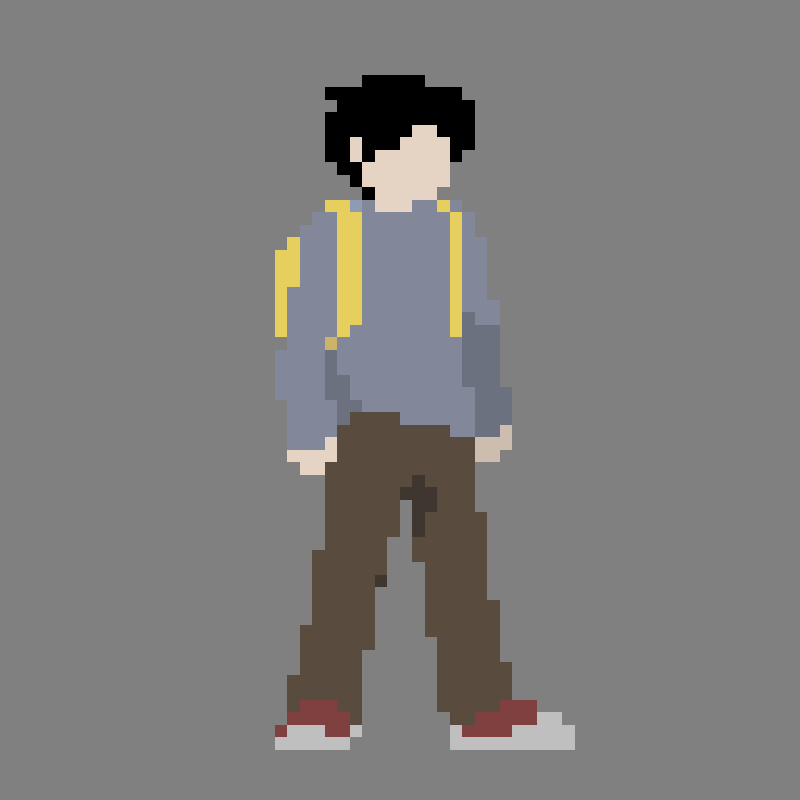
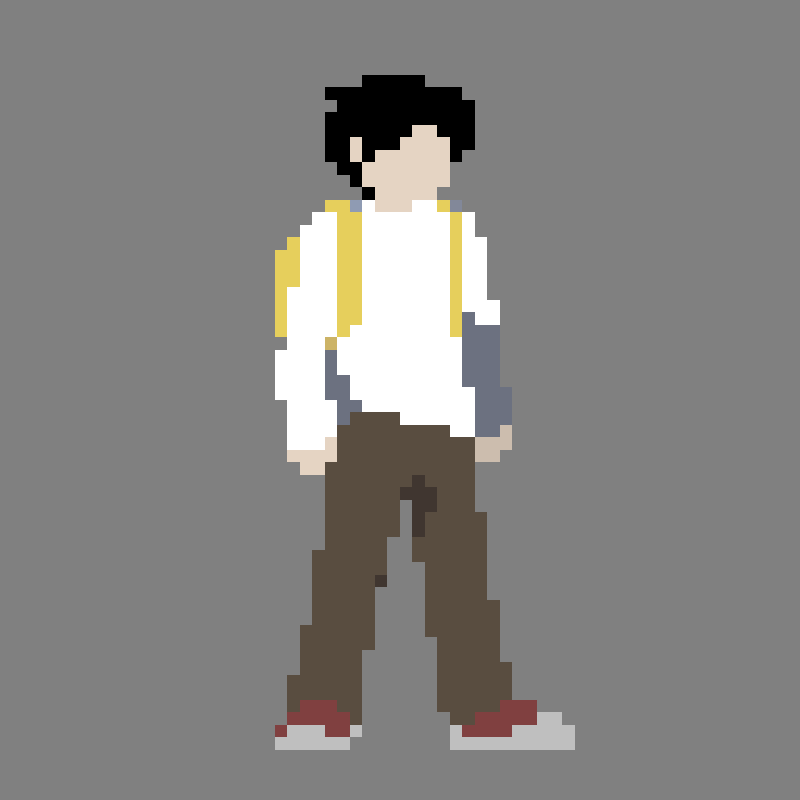
How did it not explode

Changed region(s): [[0.3438, 0.25, 0.625, 0.5625]]

diff --git a/Engine/Texture.cpp b/Engine/Texture.cpp
@@ -355,7 +355,7 @@ void Texture::InitShader()
 	glDeleteShader(fragmentShader);
 }
 
-void Texture::DrawShade(const Rectf& dstRect,const Rectf& srcRect,const Color4f& targetColor,const Color4f& replacementColor) const
+void Texture::DrawShade(const Rectf& dstRect,const Rectf& srcRect,std::initializer_list<std::pair<Color4f,Color4f>> colorPairs) const
 {
 	if (!m_CreationOk)
 	{
@@ -363,12 +363,11 @@ void Texture::DrawShade(const Rectf& dstRect,const Rectf& srcRect,const Color4f&
 		return;
 	}
 
-	const float epsilon{0.001f};
+	const float epsilon = 0.001f;
 
 	// --- Texture coordinates ---
 	float textLeft{},textRight{},textTop{},textBottom{};
 	float defaultDestWidth{},defaultDestHeight{};
-
 	if (!(srcRect.width > epsilon && srcRect.height > epsilon))
 	{
 		textLeft = 0.0f; textRight = 1.0f;
@@ -392,34 +391,60 @@ void Texture::DrawShade(const Rectf& dstRect,const Rectf& srcRect,const Color4f&
 	float vertexRight = (dstRect.width > epsilon) ? vertexLeft + dstRect.width : vertexLeft + defaultDestWidth;
 	float vertexTop = (dstRect.height > epsilon) ? vertexBottom + dstRect.height : vertexBottom + defaultDestHeight;
 
-	// --- Bind shader program ---
+	// --- Bind shader ---
 	glUseProgram(shaderProgram);
 
-	// --- Set uniforms ---
 	GLint texLoc = glGetUniformLocation(shaderProgram,"uTexture");
-	GLint targetLoc = glGetUniformLocation(shaderProgram,"uTargetColor");
-	GLint replacementLoc = glGetUniformLocation(shaderProgram,"uReplacementColor");
+	GLint numLoc = glGetUniformLocation(shaderProgram,"uNumColors");
+	GLint targetLoc = glGetUniformLocation(shaderProgram,"uTargetColors");
+	GLint replacementLoc = glGetUniformLocation(shaderProgram,"uReplacementColors");
 
-	glUniform1i(texLoc,0); // Texture unit 0
-	glUniform4f(targetLoc,targetColor.r,targetColor.g,targetColor.b,targetColor.a);
-	glUniform4f(replacementLoc,replacementColor.r,replacementColor.g,replacementColor.b,replacementColor.a);
+	glUniform1i(texLoc,0); // texture unit 0
 
-	// --- Bind texture ---
+	// --- Prepare color arrays ---
+	int numColors = std::min((int)colorPairs.size(),8); // max 8
+	glUniform1i(numLoc,numColors);
+
+	float targetData[32] = {0};
+	float replacementData[32] = {0};
+
+	int i = 0;
+	for (const auto& pair : colorPairs)
+	{
+		if (i >= 8) break;
+
+		targetData[i * 4 + 0] = pair.first.r;
+		targetData[i * 4 + 1] = pair.first.g;
+		targetData[i * 4 + 2] = pair.first.b;
+		targetData[i * 4 + 3] = pair.first.a;
+
+		replacementData[i * 4 + 0] = pair.second.r;
+		replacementData[i * 4 + 1] = pair.second.g;
+		replacementData[i * 4 + 2] = pair.second.b;
+		replacementData[i * 4 + 3] = pair.second.a;
+
+		++i;
+	}
+
+	glUniform4fv(targetLoc,numColors,targetData);
+	glUniform4fv(replacementLoc,numColors,replacementData);
+
+	// --- Bind texture and draw quad ---
 	glActiveTexture(GL_TEXTURE0);
 	glBindTexture(GL_TEXTURE_2D,m_Id);
-
-	// --- Draw quad ---
 	glEnable(GL_TEXTURE_2D);
+
 	glBegin(GL_QUADS);
 	glTexCoord2f(textLeft,textBottom);  glVertex2f(vertexLeft,vertexBottom);
 	glTexCoord2f(textLeft,textTop);     glVertex2f(vertexLeft,vertexTop);
 	glTexCoord2f(textRight,textTop);    glVertex2f(vertexRight,vertexTop);
 	glTexCoord2f(textRight,textBottom); glVertex2f(vertexRight,vertexBottom);
 	glEnd();
-	glDisable(GL_TEXTURE_2D);
 
+	glDisable(GL_TEXTURE_2D);
 	glUseProgram(0);
 }
+
 
 
 float Texture::GetWidth() const

diff --git a/Project_Template/Game.cpp b/Project_Template/Game.cpp
@@ -34,7 +34,7 @@ void Game::Initialize()
 		m_UnitManager.AddUnit(std::make_unique<Unit>(UnitType{},Point2f{50.0f, 50.0f + 25.0f * i},Stats{},5.0f));
 	}
 	// FOR TESTING PURPOSED FIX OR DELETE
-	m_TestTexture = std::make_unique<Texture>("../Resources/Images/PixelGuyTestChanged.png");
+	m_TestTexture = std::make_unique<Texture>("../Resources/Images/PixelBackPackGuy.png");
 
 
 	// Default
@@ -133,12 +133,21 @@ void Game::Draw() const
 		PushCameraMatrix();
 		using namespace PrettyColors;
 
-		m_TestTexture->DrawShade(Rectf{0.0f  ,600.0f,200.0f,200.0f},{},Color4f{GetColor(white)},Color4f{GetColor(lime)});
-		m_TestTexture->DrawShade(Rectf{200.0f,600.0f,200.0f,200.0f},{},Color4f{GetColor(white)},Color4f{GetColor(rose)});
-		m_TestTexture->DrawShade(Rectf{400.0f,600.0f,200.0f,200.0f},{},Color4f{GetColor(white)},Color4f{GetColor(black)});
-		m_TestTexture->DrawShade(Rectf{600.0f,600.0f,200.0f,200.0f},{},Color4f{GetColor(white)},Color4f{GetColor(cyan)});
-		m_TestTexture->DrawShade(Rectf{800.0f,600.0f,200.0f,200.0f},{},Color4f{GetColor(white)},Color4f{GetColor(brown)});
-
+		m_TestTexture->DrawShade(Rectf{0.0f  ,600.0f,200.0f,200.0f},{},{{Color4f(RGBtoColor4f(89, 77,62)), Color4f(GetColor(purple))} ,{Color4f(1,1,1,1), Color4f(GetColor(black))}
+			,{Color4f(GetColor(black)),Color4f(GetColor(white))},{Color4f(RGBtoColor4f(129,65,64)),Color4f(GetColor(black))},{Color4f(RGBtoColor4f(230,206,93)),Color4f(GetColor(purple))},{Color4f(RGBtoColor4f(190,191,190)),Color4f(GetColor(black))}});
+		
+		m_TestTexture->DrawShade(Rectf{200.0f,600.0f,200.0f,200.0f},{},{{Color4f(RGBtoColor4f(89, 77,62)), Color4f(GetColor(black))} ,{Color4f(1,1,1,1), Color4f(GetColor(black))}
+			,{Color4f(GetColor(black)),Color4f(GetColor(rose))}   ,{Color4f(RGBtoColor4f(129,65,64)),Color4f(GetColor(dRed))} ,{Color4f(RGBtoColor4f(230,206,93)),Color4f(GetColor(dRed))},{Color4f(RGBtoColor4f(190,191,190)),Color4f(GetColor(dRed))}});
+		
+		m_TestTexture->DrawShade(Rectf{400.0f,600.0f,200.0f,200.0f},{},{{Color4f(RGBtoColor4f(89, 77,62)), Color4f(GetColor(orange))} ,{Color4f(1,1,1,1), Color4f(GetColor(orange))}
+			,{Color4f(GetColor(black)),Color4f(GetColor(black))}  ,{Color4f(RGBtoColor4f(129,65,64)),Color4f(GetColor(cobalt))} ,{Color4f(RGBtoColor4f(230,206,93)),Color4f(GetColor(dBlue))},{Color4f(RGBtoColor4f(190,191,190)),Color4f(GetColor(black))}});
+		
+		m_TestTexture->DrawShade(Rectf{600.0f,600.0f,200.0f,200.0f},{},{{Color4f(RGBtoColor4f(89, 77,62)), Color4f(GetColor(black))} ,{Color4f(1,1,1,1), Color4f(GetColor(yellow))}
+			,{Color4f(GetColor(black)),Color4f(GetColor(black))} ,{Color4f(RGBtoColor4f(129,65,64)),Color4f(GetColor(lBlue))},{Color4f(RGBtoColor4f(230,206,93)),Color4f(GetColor(lBlue))},{Color4f(RGBtoColor4f(190,191,190)),Color4f(GetColor(lBlue))}});
+		
+		m_TestTexture->DrawShade(Rectf{800.0f,600.0f,200.0f,200.0f},{},{{Color4f(RGBtoColor4f(89, 77,62)), Color4f(GetColor(black))} ,{Color4f(1,1,1,1), Color4f(GetColor(dRed))}
+			,{Color4f(GetColor(black)),Color4f(GetColor(dRed))},{Color4f(RGBtoColor4f(129,65,64)),Color4f(GetColor(white))},{Color4f(RGBtoColor4f(230,206,93)),Color4f(GetColor(gray))},{Color4f(RGBtoColor4f(190,191,190)),Color4f(GetColor(black))}});
+																																																			 
 		m_UnitManager.DrawAll();
 		m_SandboxBattler->Draw();
 

diff --git a/Engine/Texture.h b/Engine/Texture.h
@@ -15,7 +15,7 @@ public:
 
 	void Draw(const Point2f& dstBottomLeft = {}, const Rectf& srcRect = {}) const;
 	void Draw(const Rectf& dstRect, const Rectf& srcRect = {} ) const;
-	void DrawShade(const Rectf& dstRect,const Rectf& srcRec = {},const Color4f& targetColor = Color4f{1.0f,1.0f,1.0f,1.0f},const Color4f& replacementColor = Color4f{1.0f,0.0f,0.0f,1.0f}) const;
+	void DrawShade(const Rectf& dstRect,const Rectf& srcRect,std::initializer_list<std::pair<Color4f,Color4f>> colorPairs) const;
 
 	static void InitShader();
 	static GLuint shaderProgram;

diff --git a/Project_Template/PrettyColors.h b/Project_Template/PrettyColors.h
@@ -85,4 +85,14 @@ namespace PrettyColors
 		return int(ColorsList::AllColors);
 	}
 
+	static Color4f RGBtoColor4f(int r,int g,int b,int a = 255)
+	{
+		return Color4f{
+			float(r) / 255.0f,
+			float(g) / 255.0f,
+			float(b) / 255.0f,
+			float(a) / 255.0f
+		};
+	}
+
 };
